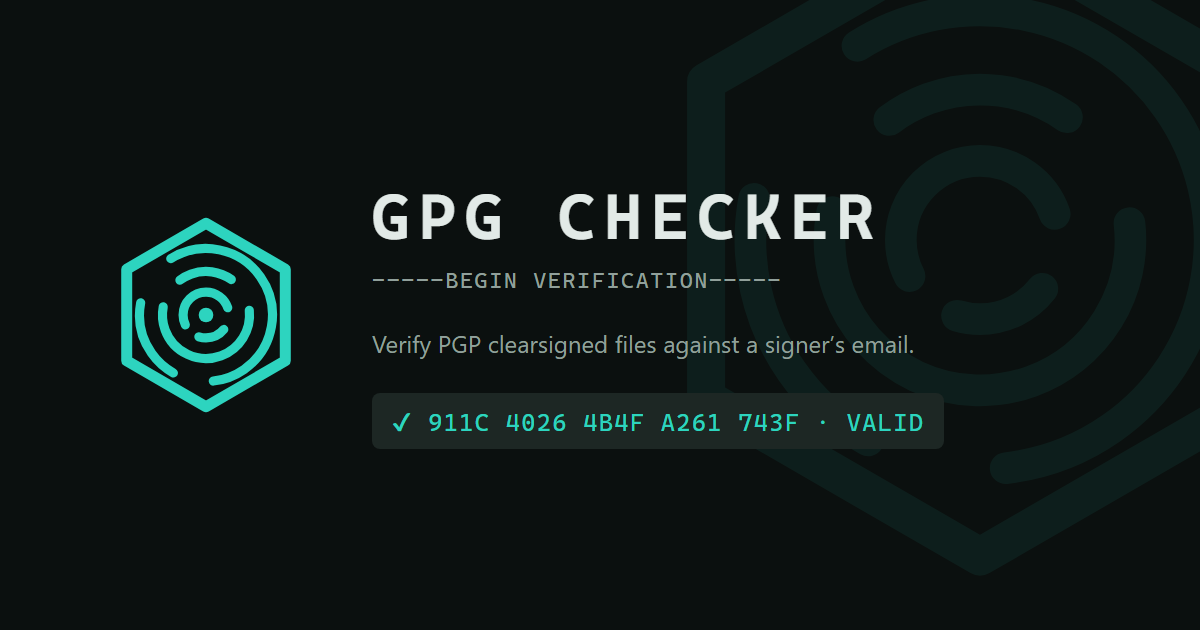
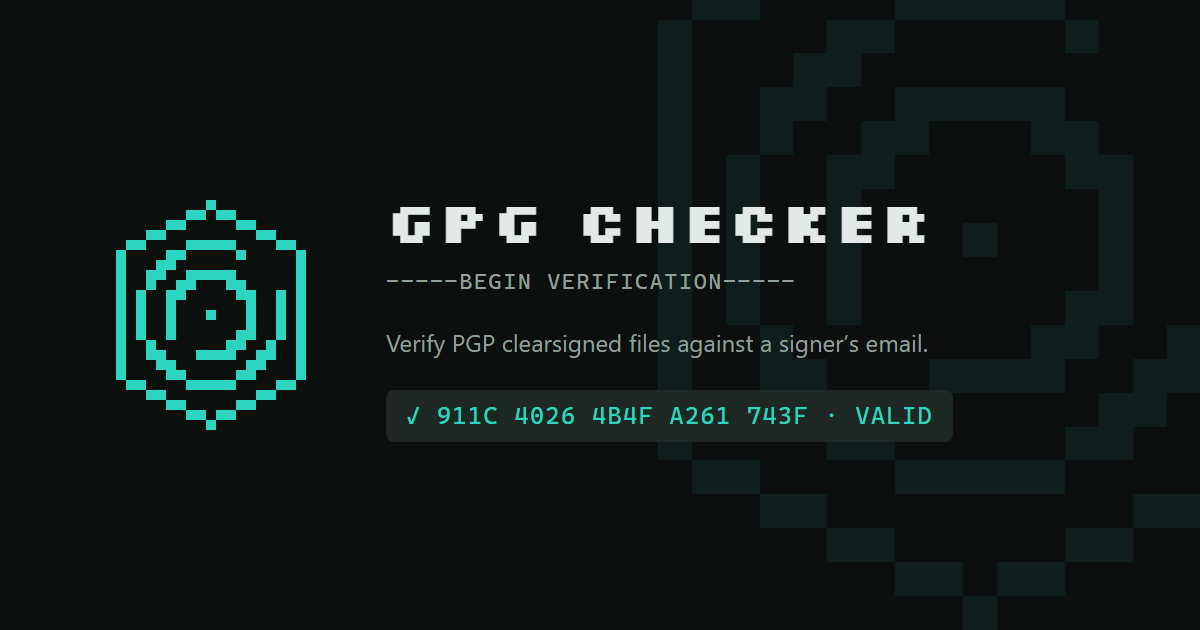
Integrate pixel art into the visual identity
The seal becomes a hand-gridded 23x23 pixel sprite (masthead, favicon,
watermark), verdict and button glyphs become pixel sprites, the wordmark
and card eyebrows switch to the Silkscreen pixel face, and verdict
banners gain a dithered two-step stamp shadow. OG image regenerated in
the pixel identity. Data, labels, and body text stay in Geist Mono/Sans
for readability.

diff --git a/app/page.tsx b/app/page.tsx
@@ -47,57 +47,132 @@ interface VerifyResult {
   signedText?: string;
 }
 
+// Pixel-art fingerprint seal, drawn on a 23x23 grid.
+const SEAL_GRID = `
+...........#...........
+.........##.##.........
+.......##.....##.......
+.....##.........##.....
+...##....#####....##...
+..#....##.....#.....#..
+..#...##............#..
+..#..##..#####......#..
+..#..#..##...##.....#..
+..#.#..##.....##..#.#..
+..#.#..#.......#..#.#..
+..#.#..#...#...#..#.#..
+..#.#..#.......#..#.#..
+..#.#..#......##..#.#..
+..#..#.......##..#..#..
+..#..##...####..##..#..
+..#...##.......##...#..
+..#....##.....##....#..
+...##....#####....##...
+.....##.........##.....
+.......##.....##.......
+.........##.##.........
+...........#...........`;
+
+function gridToRects(grid: string): { x: number; y: number }[] {
+  return grid
+    .trim()
+    .split("\n")
+    .flatMap((row, y) =>
+      [...row].flatMap((ch, x) => (ch === "#" ? [{ x, y }] : []))
+    );
+}
+
+const SEAL_RECTS = gridToRects(SEAL_GRID);
+
 function SealMark({ size, className }: { size: number; className?: string }) {
   return (
     <svg
       className={className}
       width={size}
       height={size}
-      viewBox="0 0 48 48"
+      viewBox="0 0 23 23"
+      shapeRendering="crispEdges"
       aria-hidden="true"
       focusable="false"
     >
-      <path
-        d="M24 4 L6.7 14 V34 L24 44 L41.3 34 V14 Z"
-        fill="none"
-        stroke="currentColor"
-        strokeWidth="2.4"
-        strokeLinejoin="round"
-      />
-      <circle
-        cx="24"
-        cy="24"
-        r="14.5"
-        fill="none"
-        stroke="currentColor"
-        strokeWidth="2"
-        strokeLinecap="round"
-        strokeDasharray="30 9 18 12"
-        transform="rotate(-35 24 24)"
-      />
-      <circle
-        cx="24"
-        cy="24"
-        r="9.5"
-        fill="none"
-        stroke="currentColor"
-        strokeWidth="2"
-        strokeLinecap="round"
-        strokeDasharray="20 7 12 8"
-        transform="rotate(70 24 24)"
-      />
-      <circle
-        cx="24"
-        cy="24"
-        r="5"
-        fill="none"
-        stroke="currentColor"
-        strokeWidth="2"
-        strokeLinecap="round"
-        strokeDasharray="14 5 6 4"
-        transform="rotate(180 24 24)"
-      />
-      <circle cx="24" cy="24" r="1.6" fill="currentColor" />
+      {SEAL_RECTS.map(({ x, y }) => (
+        <rect
+          key={`${x}-${y}`}
+          x={x}
+          y={y}
+          width="1"
+          height="1"
+          fill="currentColor"
+        />
+      ))}
+    </svg>
+  );
+}
+
+// Small pixel glyphs used in verdicts and buttons.
+const GLYPH_GRIDS = {
+  check: `
+......#
+.....##
+....##.
+#..##..
+#####..
+.###...
+..#....`,
+  cross: `
+#.....#
+##...##
+.##.##.
+..###..
+.##.##.
+##...##
+#.....#`,
+  warn: `
+..###..
+..###..
+..###..
+..###..
+.......
+..###..
+..###..`,
+  question: `
+.####..
+##..##.
+....##.
+...##..
+..##...
+.......
+..##...`,
+  down: `
+..###..
+..###..
+..###..
+#######
+.#####.
+..###..
+...#...`,
+} as const;
+
+function PixelGlyph({ kind }: { kind: keyof typeof GLYPH_GRIDS }) {
+  const rows = GLYPH_GRIDS[kind].trim().split("\n");
+  return (
+    <svg
+      viewBox={`0 0 ${rows[0].length} ${rows.length}`}
+      className="pixel-glyph"
+      shapeRendering="crispEdges"
+      aria-hidden="true"
+      focusable="false"
+    >
+      {gridToRects(GLYPH_GRIDS[kind]).map(({ x, y }) => (
+        <rect
+          key={`${x}-${y}`}
+          x={x}
+          y={y}
+          width="1"
+          height="1"
+          fill="currentColor"
+        />
+      ))}
     </svg>
   );
 }
@@ -185,10 +260,16 @@ function KeyCard({ info }: { info: KeyInfo }) {
   );
 }
 
-const SIG_LABEL: Record<SignatureInfo["status"], string> = {
-  valid: "✔ Valid signature",
-  invalid: "✘ INVALID signature",
-  "no-matching-key": "? Signature from a different key",
+const SIG_LABEL: Record<
+  SignatureInfo["status"],
+  { glyph: keyof typeof GLYPH_GRIDS; text: string }
+> = {
+  valid: { glyph: "check", text: "Valid signature" },
+  invalid: { glyph: "cross", text: "INVALID signature" },
+  "no-matching-key": {
+    glyph: "question",
+    text: "Signature from a different key",
+  },
 };
 
 export default function Home() {
@@ -275,9 +356,9 @@ export default function Home() {
   function goodBannerText(): string {
     const keyIds = matchedFprs.map((f) => f.slice(-16)).join(", ");
     if (keyCount > 1) {
-      return `✔ Signature is VALID — made by key ${keyIds}, one of ${keyCount} keys the keyserver returned for ${result?.email}. Check the fingerprint below.`;
+      return `Signature is VALID — made by key ${keyIds}, one of ${keyCount} keys the keyserver returned for ${result?.email}. Check the fingerprint below.`;
     }
-    return `✔ Signature is VALID and matches the key found for ${result?.email}`;
+    return `Signature is VALID and matches the key found for ${result?.email}`;
   }
 
   function downloadContent() {
@@ -309,7 +390,7 @@ export default function Home() {
     if (result?.anyInvalid) {
       parts.push("another signature on this message FAILED verification");
     }
-    return `⚠ A signature is cryptographically valid, but ${parts.join("; and ")}.`;
+    return `A signature is cryptographically valid, but ${parts.join("; and ")}.`;
   }
 
   return (
@@ -320,7 +401,7 @@ export default function Home() {
 
       <header className="masthead">
         <span className="masthead-seal">
-          <SealMark size={44} />
+          <SealMark size={46} />
         </span>
         <div>
           <h1>GPG Checker</h1>
@@ -402,17 +483,34 @@ export default function Home() {
                 : "banner banner-error"
             }
           >
-            {verdict === "good" && goodBannerText()}
-            {verdict === "caution" && cautionBannerText()}
-            {verdict === "bad" &&
-              "✘ Signature did NOT verify against the key found for " +
-                result.email}
-            {verdict === "error" && (result.error ?? "Verification failed.")}
+            {verdict === "good" && (
+              <>
+                <PixelGlyph kind="check" /> {goodBannerText()}
+              </>
+            )}
+            {verdict === "caution" && (
+              <>
+                <PixelGlyph kind="warn" /> {cautionBannerText()}
+              </>
+            )}
+            {verdict === "bad" && (
+              <>
+                <PixelGlyph kind="cross" />{" "}
+                {"Signature did NOT verify against the key found for " +
+                  result.email}
+              </>
+            )}
+            {verdict === "error" && (
+              <>
+                <PixelGlyph kind="cross" />{" "}
+                {result.error ?? "Verification failed."}
+              </>
+            )}
           </div>
 
           {result.warnings?.map((w) => (
             <div key={w} className="banner banner-warn">
-              ⚠ {w}
+              <PixelGlyph kind="warn" /> {w}
             </div>
           ))}
 
@@ -440,7 +538,8 @@ export default function Home() {
                     }`}
                   >
                     <div className="sig-status">
-                      {SIG_LABEL[sig.status]}
+                      <PixelGlyph kind={SIG_LABEL[sig.status].glyph} />{" "}
+                      {SIG_LABEL[sig.status].text}
                       {sig.status === "valid" && sig.signerRevoked && (
                         <span className="badge badge-bad">key now revoked</span>
                       )}
@@ -491,7 +590,7 @@ export default function Home() {
                     className="primary"
                     onClick={downloadContent}
                   >
-                    ⬇ Download content
+                    <PixelGlyph kind="down" /> Download content
                   </button>
                   <span className="hint">
                     Saves the signed content exactly as verified, without the

diff --git a/app/globals.css b/app/globals.css
@@ -20,6 +20,7 @@
   --watermark-opacity: 0.045;
   --mono: var(--font-geist-mono, ui-monospace, "Cascadia Mono", monospace);
   --sans: var(--font-geist-sans, system-ui, -apple-system, sans-serif);
+  --pixel: var(--font-pixel, var(--font-geist-mono, ui-monospace, monospace));
 }
 
 @media (prefers-color-scheme: dark) {
@@ -99,11 +100,11 @@ main > *:not(.watermark) {
 }
 
 h1 {
-  font-family: var(--mono);
-  font-size: 1.45rem;
+  font-family: var(--pixel);
+  font-size: 1.35rem;
   font-weight: 700;
   text-transform: uppercase;
-  letter-spacing: 0.14em;
+  letter-spacing: 0.06em;
   line-height: 1.2;
 }
 
@@ -117,13 +118,20 @@ h1 {
 }
 
 h2 {
-  font-family: var(--mono);
-  font-size: 0.72rem;
-  font-weight: 700;
+  font-family: var(--pixel);
+  font-size: 0.66rem;
+  font-weight: 400;
   text-transform: uppercase;
-  letter-spacing: 0.16em;
+  letter-spacing: 0.1em;
   color: var(--muted);
   margin-bottom: 0.9rem;
+}
+
+.pixel-glyph {
+  height: 0.8em;
+  width: auto;
+  display: inline-block;
+  vertical-align: -0.02em;
 }
 
 .subtitle {
@@ -264,7 +272,8 @@ button.secondary:hover {
   background: var(--good-bg);
   color: var(--good-fg);
   border-color: var(--good-border);
-  box-shadow: 3px 3px 0 var(--good-border);
+  box-shadow: 3px 3px 0 var(--good-border),
+    6px 6px 0 color-mix(in srgb, var(--good-border) 40%, transparent);
 }
 
 .banner-bad,
@@ -272,14 +281,16 @@ button.secondary:hover {
   background: var(--bad-bg);
   color: var(--bad-fg);
   border-color: var(--bad-border);
-  box-shadow: 3px 3px 0 var(--bad-border);
+  box-shadow: 3px 3px 0 var(--bad-border),
+    6px 6px 0 color-mix(in srgb, var(--bad-border) 40%, transparent);
 }
 
 .banner-warn {
   background: var(--warn-bg);
   color: var(--warn-fg);
   border-color: var(--warn-border);
-  box-shadow: 3px 3px 0 var(--warn-border);
+  box-shadow: 3px 3px 0 var(--warn-border),
+    6px 6px 0 color-mix(in srgb, var(--warn-border) 40%, transparent);
 }
 
 .keyserver-line {

diff --git a/app/layout.tsx b/app/layout.tsx
@@ -1,5 +1,5 @@
 import type { Metadata } from "next";
-import { Geist, Geist_Mono } from "next/font/google";
+import { Geist, Geist_Mono, Silkscreen } from "next/font/google";
 import "./globals.css";
 
 const geistSans = Geist({
@@ -9,6 +9,12 @@ const geistSans = Geist({
 
 const geistMono = Geist_Mono({
   variable: "--font-geist-mono",
+  subsets: ["latin"],
+});
+
+const silkscreen = Silkscreen({
+  variable: "--font-pixel",
+  weight: ["400", "700"],
   subsets: ["latin"],
 });
 
@@ -38,7 +44,10 @@ export default function RootLayout({
   children: React.ReactNode;
 }>) {
   return (
-    <html lang="en" className={`${geistSans.variable} ${geistMono.variable}`}>
+    <html
+      lang="en"
+      className={`${geistSans.variable} ${geistMono.variable} ${silkscreen.variable}`}
+    >
       <body>{children}</body>
     </html>
   );